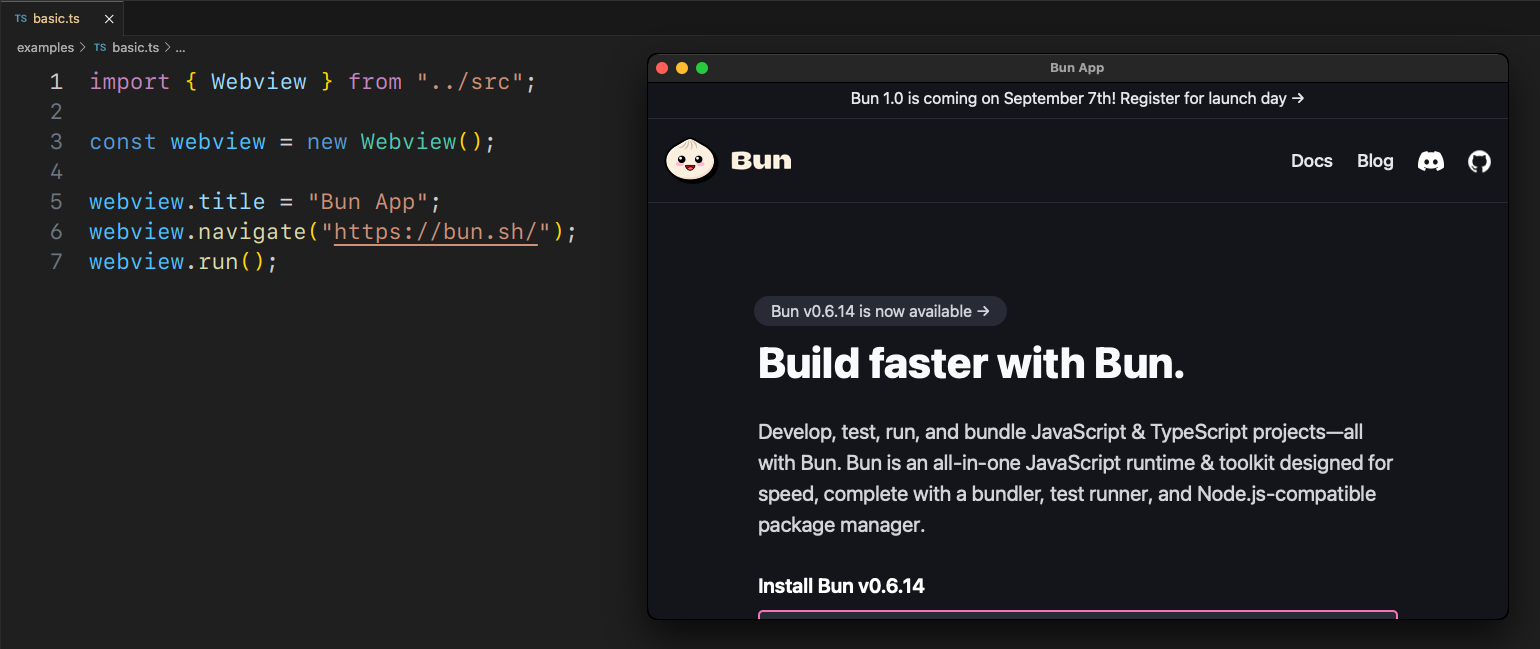
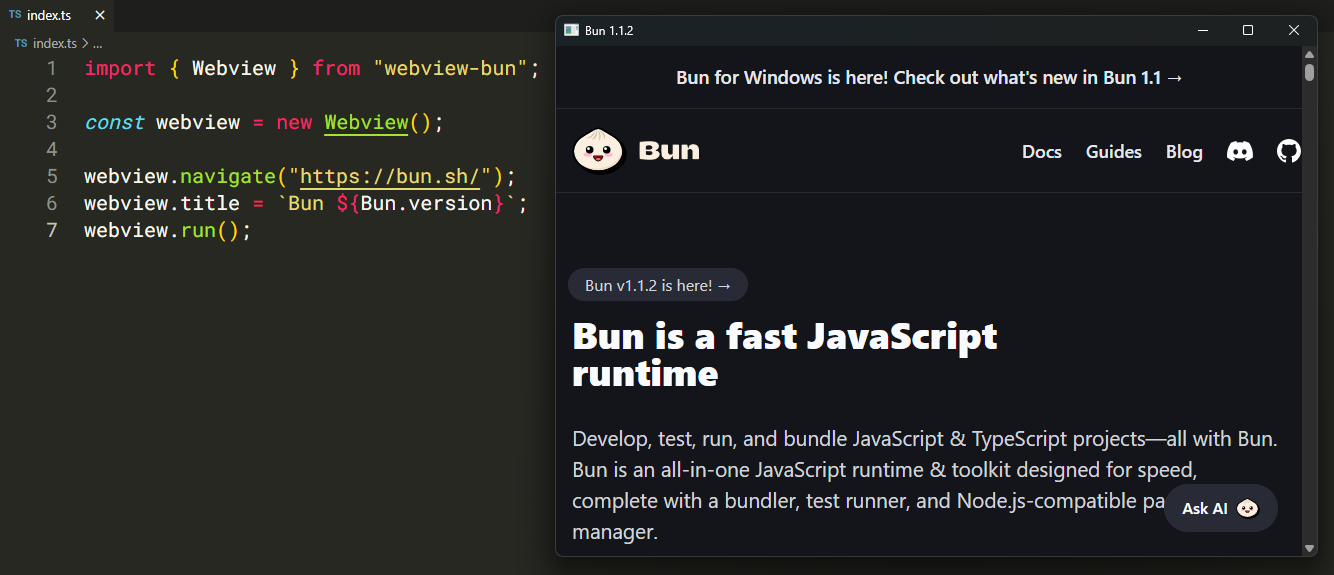
Add windows support.

diff --git a/scripts/build.ts b/scripts/build.ts
@@ -1,16 +1,19 @@
 import { $ } from "bun";
-
+$.nothrow();
 switch (process.platform) {
+    case "win32":
+        await $`mkdir -p Microsoft.Web.WebView2`;
+        await $`curl -sSL "https://www.nuget.org/api/v2/package/Microsoft.Web.WebView2" | tar -xf - -C Microsoft.Web.WebView2`;
+        await $`c++ webview/webview.cc -DWEBVIEW_BUILD_SHARED -IMicrosoft.Web.WebView2/build/native/include -shared -std=c++14 -Wall -Wextra -pedantic -fpic -mwindows -ladvapi32 -lole32 -lshell32 -lshlwapi -luser32 -lversion -o build/libwebview.dll`;
+        await $`strip build/libwebview.dll`;
+        break;
     case "linux":
         await $`c++ webview/webview.cc -DWEBVIEW_API=extern -DWEBVIEW_GTK -shared -std=c++11 -Wall -Wextra -pedantic -fpic $(pkg-config --cflags --libs gtk+-3.0 webkit2gtk-4.0) -o build/libwebview.so`;
         await $`strip build/libwebview.so`;
         break;
     case "darwin":
-        const architectures = [["x64", "x86_64"], ["arm64", "arm64"]];
-        for (const [bunArch, gccArch] of architectures) {
+        for (const [bunArch, gccArch] of [["x64", "x86_64"], ["arm64", "arm64"]])
             await $`c++ webview/webview.cc -DWEBVIEW_API=extern -DWEBVIEW_COCOA -dynamiclib -std=c++11 -Wall -Wextra -pedantic -fpic -framework WebKit -arch ${gccArch} -o ${`build/libwebview.${bunArch}.dylib`}`;
-            await $`strip ${`build/libwebview.${bunArch}.dylib`}`;
-        }
         break;
     default:
         throw "unsupported platform: " + process.platform;

diff --git a/src/ffi.ts b/src/ffi.ts
@@ -9,16 +9,23 @@ export const instances: Webview[] = [];
 
 /**
  * Unload the library and destroy all webview instances. Should only be run
- * once all windows are closed. If `preload` was called in the main thread,
- * this will automatically be called during the `window.onunload` event;
- * otherwise, you may have to call this manually.
+ * once all windows are closed.
  */
 export function unload() {
     for (const instance of instances) instance.destroy();
     lib.close();
 }
 
-export const lib = dlopen(process.env.WEBVIEW_PATH ?? `${import.meta.dir}/../build/libwebview${(process.platform === "linux" ? `.so` : `.${process.arch}.dylib`)}`, {
+let lib_path = `${import.meta.dir}/../build/`;
+
+switch (process.platform) {
+    case "win32": lib_path += "libwebview.dll"; break;
+    case "linux": lib_path += "libwebview.so"; break;
+    case "darwin": lib_path += `libwebview.${process.arch}.dylib`; break;
+    default: throw "unsupported platform: " + process.platform;
+}
+
+export const lib = dlopen(process.env.WEBVIEW_PATH ?? lib_path, {
     webview_create: {
         args: [FFIType.i32, FFIType.ptr],
         returns: FFIType.ptr

diff --git a/scripts/download.ts b/scripts/download.ts
@@ -1,5 +1,10 @@
-const filename = `libwebview${(process.platform === "linux" ? `.so` : `.${process.arch}.dylib`)}`;
-console.log("Downloading latest libwebview...");
-const res = await fetch(`https://github.com/tr1ckydev/webview-bun/releases/latest/download/${filename}`);
-await Bun.write(`${import.meta.dir}/build/${filename}`, res);
-console.log("Finished.");
+switch (process.platform) {
+    case "win32": await dl("libwebview.dll"); break;
+    case "linux": await dl("libwebview.so"); break;
+    case "darwin": await dl(`libwebview.${process.arch}.dylib`); break;
+    default: throw "unsupported platform: " + process.platform;
+}
+
+async function dl(filename: string) {
+    await Bun.$`curl -sSLo "${import.meta.dir}/../build/${filename}" "https://github.com/tr1ckydev/webview-bun/releases/latest/download/${filename}"`.nothrow();
+}
